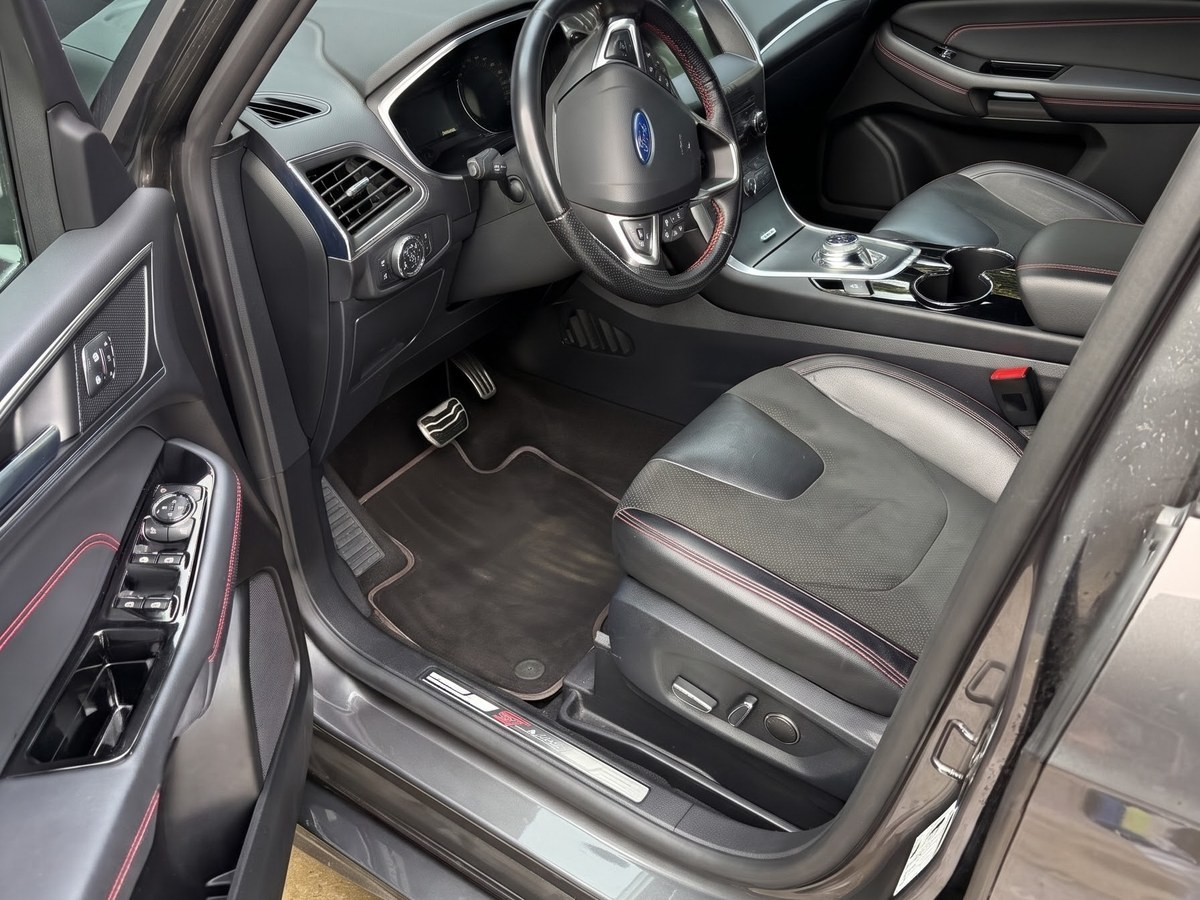
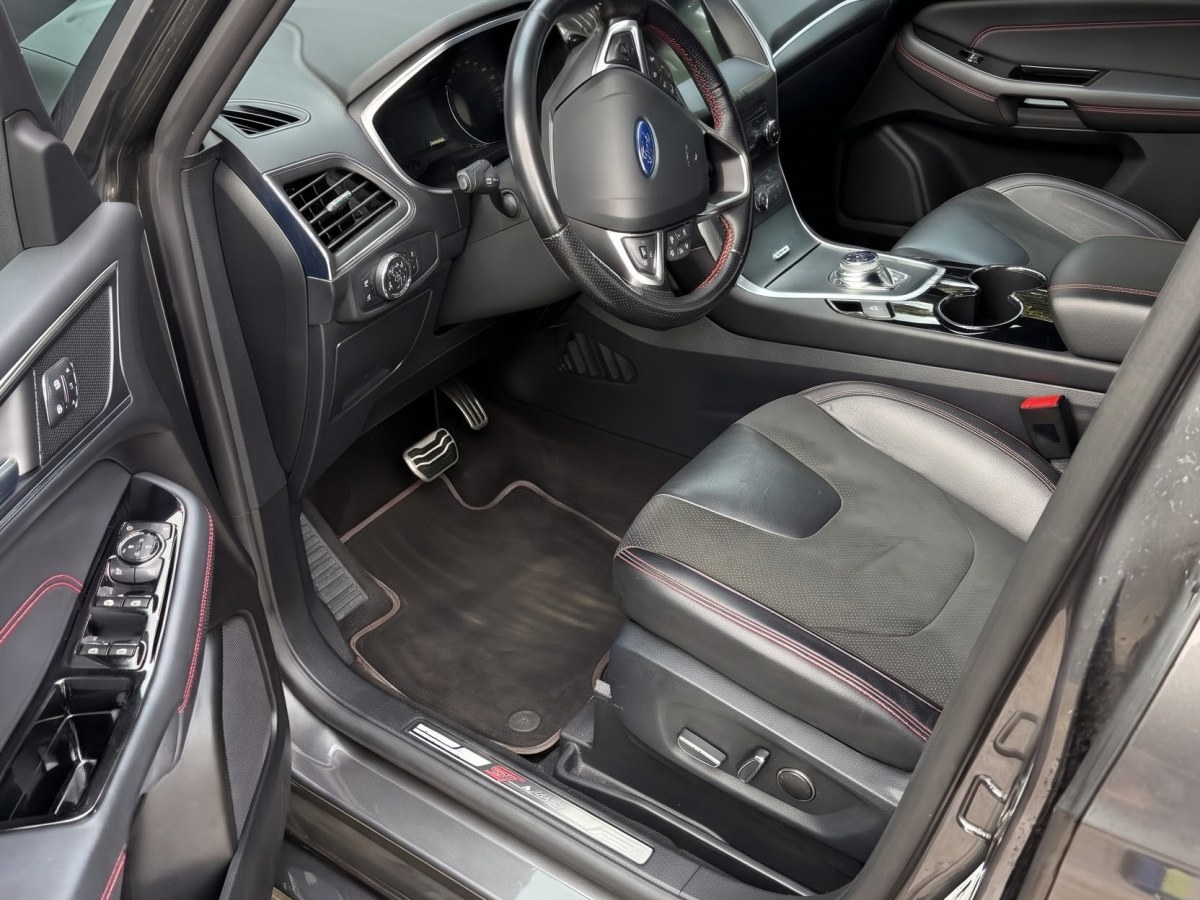
Galleri: Ford S-Max før/efter flugter nu bedre
Claude-Session: https://claude.ai/code/session_0194ZkS1w5U19cUWzvEH61VQ

diff --git a/galleri.html b/galleri.html
@@ -73,8 +73,8 @@
       <div class="ba-list">
         <figure class="ba-card">
           <div class="ba">
-            <img width="1200" height="900" src="galleri/smax-foererplads-efter.jpg" alt="Ford S-Max, førerplads efter vask" loading="lazy">
-            <img width="1200" height="900" class="ba-before" src="galleri/smax-foererplads-foer.jpg" alt="Ford S-Max, førerplads på samme bil før vask" loading="lazy">
+            <img width="1200" height="900" src="galleri/smax-foererplads-efter.jpg?v=2" alt="Ford S-Max, førerplads efter vask" loading="lazy">
+            <img width="1200" height="900" class="ba-before" src="galleri/smax-foererplads-foer.jpg?v=2" alt="Ford S-Max, førerplads på samme bil før vask" loading="lazy">
             <span class="ba-tag l">Før</span><span class="ba-tag r">Efter</span>
             <input type="range" min="0" max="100" value="50" step="0.5" aria-label="Før og efter: Ford S-Max førerplads">
             <span class="ba-line"></span>
